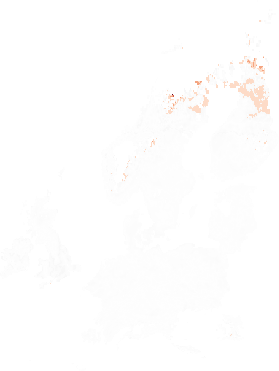
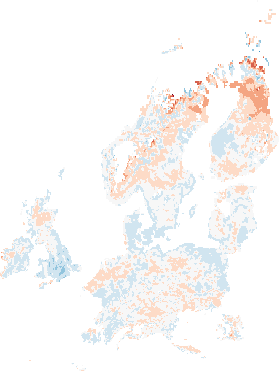
Make delta color scale sensitive to small changes near zero
Linear mapping over +/-200% meant anything under ~20% change landed on or
one step from the ramp's center white, reading as "nothing happened" even
when there was a real, meaningful shift. Two fixes:

1. Signed-sqrt transform before mapping onto the ramp: compresses the huge
   low-baseline outliers (up to 1000%+) while expanding resolution right
   around zero, so a 10% change now lands 1-2 ramp steps from center --
   clearly a distinct tint, not indistinguishable from no change.
2. Fixed the ramp itself: the previous version duplicated the center white
   stop, doubling the "looks like nothing" dead zone exactly where
   sensitivity matters most. Now a proper single-center 11-stop
   ColorBrewer RdBu.

Also dropped the near-zero alpha fade (previous design intentionally faded
small changes toward transparent) since the whole point now is to make
small changes visible, not de-emphasize them -- alpha is just on/off
(data/no-data) and the color itself carries the signal.

App: DELTA_GRADIENT's CSS stops are no longer evenly spaced (0/10/20...%) --
they mirror the sqrt transform (0/18/32/42/48/50/52/58/68/82/100%) so the
legend bar's own color spacing matches what the map actually shows, instead
of implying a linear scale it no longer uses.

diff --git a/index.html b/index.html
@@ -1428,8 +1428,14 @@
     // Diverging (ColorBrewer RdBu) ramp for the bark-beetle ensemble forecast's
     // "delta vs. current" view -- deliberately a different family from the
     // Spectral RISK_GRADIENT so a change map is never mistaken for an
-    // absolute-risk one. Matches DELTA_RAMP/DELTA_CAP in build_ensemble_delta.R.
-    const DELTA_GRADIENT = "linear-gradient(to right, #2166ac 0%, #4393c3 10%, #92c5de 20%, #d1e5f0 30%, #f7f7f7 40%, #f7f7f7 50%, #fddbc7 60%, #f4a582 70%, #d6604d 80%, #b2182b 90%, #67001f 100%)";
+    // absolute-risk one. Matches DELTA_RAMP/PCT_CAP in build_ensemble_delta.R.
+    // Stop positions are NOT evenly spaced -- they mirror the signed-sqrt
+    // transform the R script applies before coloring (0/+-18/+-32/+-42/+-48%
+    // land at 0/18/32/42/48% etc.), so the legend bar's own color spacing
+    // shows the same "fast near zero, compressed at the extremes"
+    // sensitivity as the map -- a straight 0/10/20.../100% spacing would
+    // make the legend lie about how visible a small change actually is.
+    const DELTA_GRADIENT = "linear-gradient(to right, #053061 0%, #2166ac 18%, #4393c3 32%, #92c5de 42%, #d1e5f0 48%, #f7f7f7 50%, #fddbc7 52%, #f4a582 58%, #d6604d 68%, #b2182b 82%, #67001f 100%)";
     const DELTA_CAP = 200; // percent change, saturates the ramp at +/-200%
     // Low-risk end fades across the bottom RISK_FADE_KNEE of the scale, but
     // never below RISK_FADE_FLOOR opacity, so even ~1% risk stays faintly
